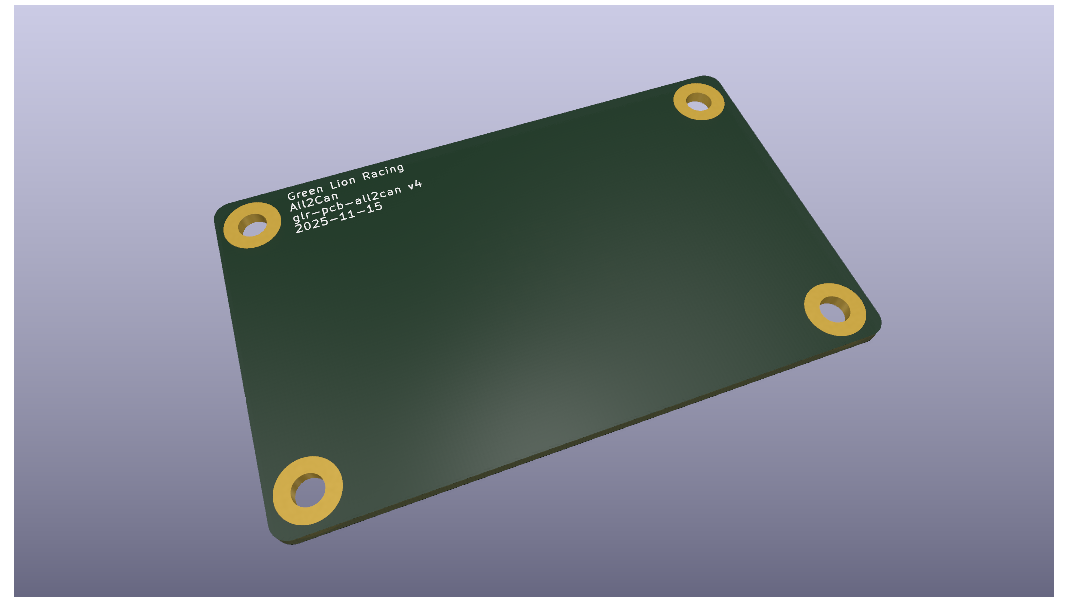
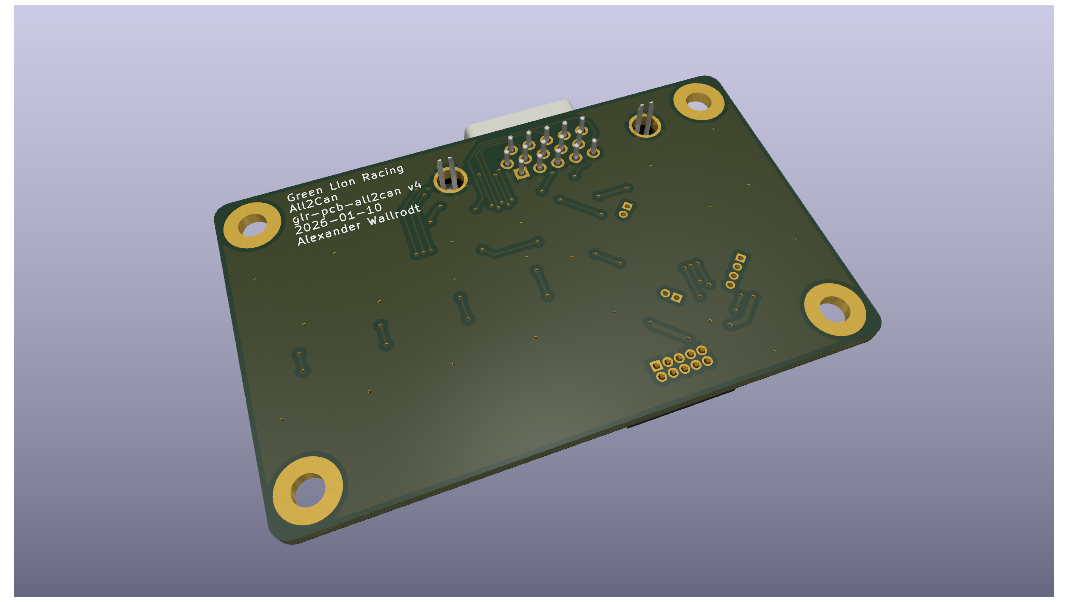
update README.md
update images

diff --git a/README.md b/README.md
@@ -9,7 +9,34 @@ This is a KiCad PCB repository for the [All2Can](https://github.com/green-lion-r
 
 ## Overview
 
-In this to be longer overview, you could write what this board does what are it main components and such.
+This PCB is intended to collect sensor data and provide that to can.
+
+The connector is D-Sub 15-pin male.
+It supports a 24V power supply voltage. 
+One CAN (up to 5 MB/s) connection. 
+Uses a `STMSTM32C092KCT6` microcontroller (250kbytes Flash 36kbytes Ram).
+It also preserves space for an 6-axis IMU `LSM6DSV16BXTR`.
+
+There are 7 analog/digital inputs (input voltage level is configurable by a voltage divider). 
+And 4 digital outputs (5V level).
+
+Provides headers for SPI, I2C, UART.
+
+### History
+
+This PCB is actually the fourthst generation of this type used for our team.
+
+1. [Frist version](https://circuitmaker.com/Projects/Details/Pat-Her/All2Can-V01) in CircuitMaker.
+   By [PatHer777](https://github.com/PatHer777).
+
+2. [Second version](https://circuitmaker.com/Projects/Details/Jannis-Dohm/All2Can) also in CircuitMaker with some changes.
+   By Jannis Dohm.
+
+3. Third in Fusion 360, with new PCB design. 
+   By Alexander Wallrodt.
+
+4. Now [fourth version](https://github.com/green-lion-racing/glr-pcb-all2can) in KiCad, with some changes to schematic and smaller PCB.
+   By Alexander Wallrodt.
 
 ## How to use this template
 
@@ -27,7 +54,7 @@ This is a list of task you should first do when using this template:
   
   - Inside of files `glr-pcb-template.kicad_pro` find the line with `glr-pcb-template` and change to `glr-pcb-your-project-name`.
 
-- [ ] Change short description and longer overview of this board in `README.md`.
+- [x] Change short description and longer overview of this board in `README.md`.
 
 - [x] Replace display images in `img/` used in `README.md` of a rendering of your pcb.
 
